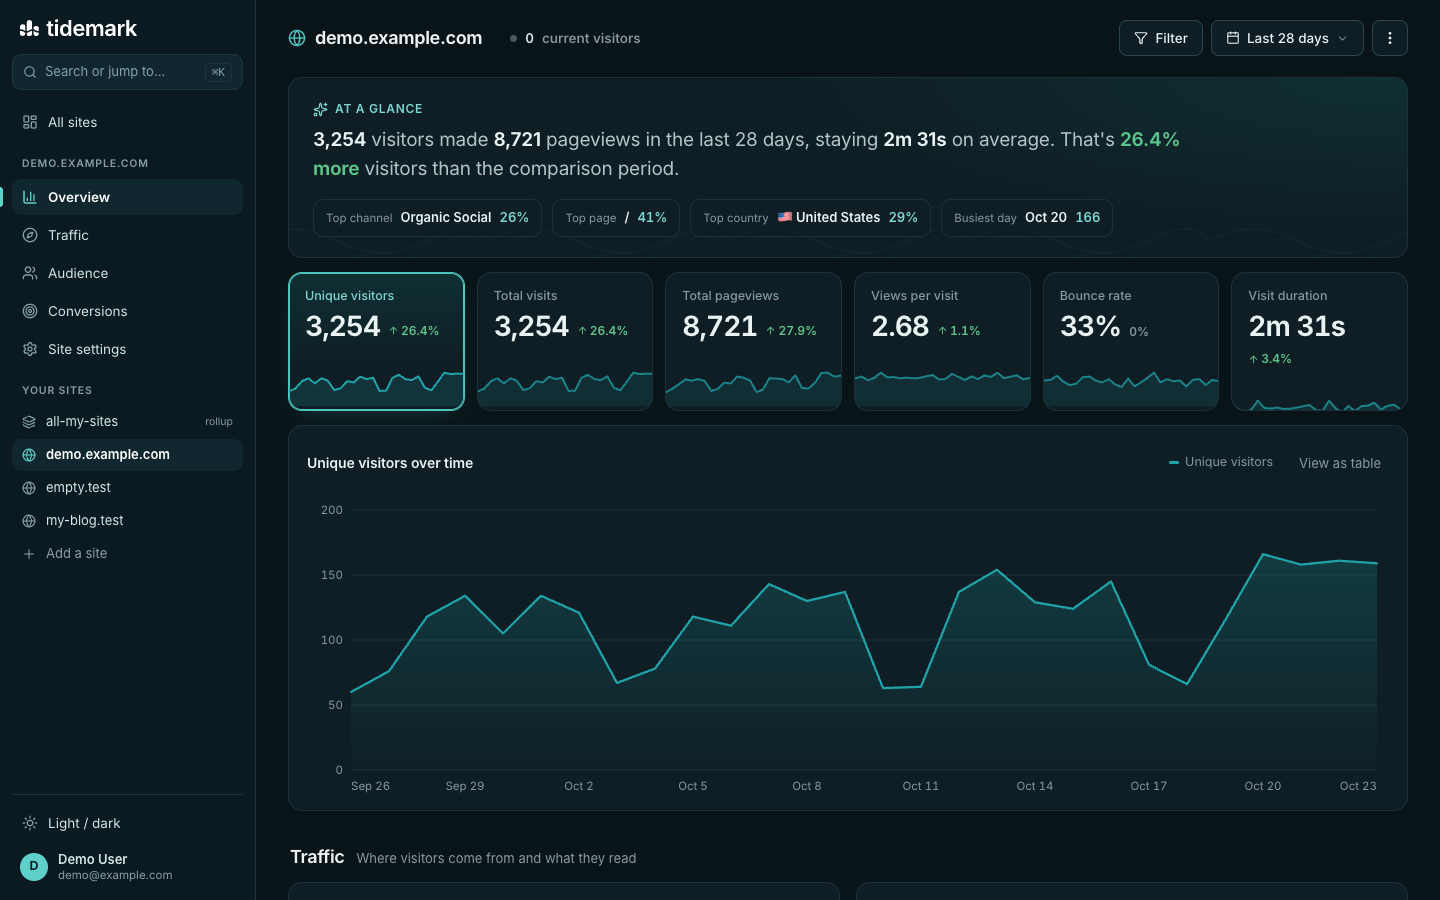
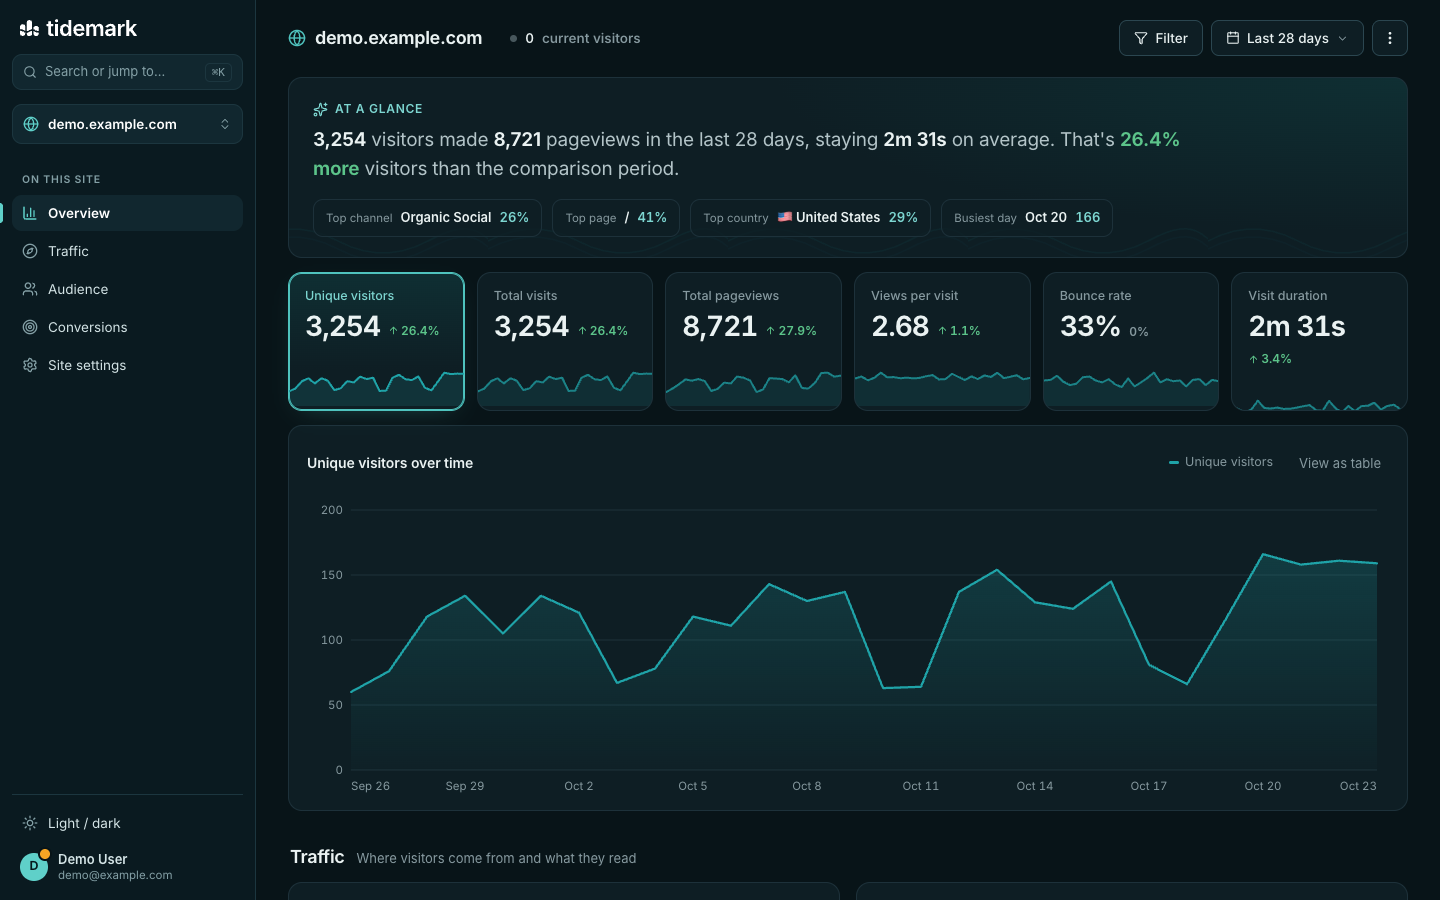
Update screenshots for the site switcher

Changed region(s): [[0.0, 0.1244, 0.125, 0.4356], [0.0312, 0.4667, 0.125, 0.6222]]

diff --git a/README.md b/README.md
@@ -20,6 +20,7 @@ Update the container from the Docker tab. Database migrations run the first time
 ![Dashboard](screenshots/dashboard-dark.png)
 ![Reports](screenshots/sections-dark.png)
 ![Command palette](screenshots/command-palette-dark.png)
+![Site switcher](screenshots/site-switcher-dark.png)
 ![Branded dashboard](screenshots/branding-coffee-light.png)
 
 Licensed under the MIT license.
